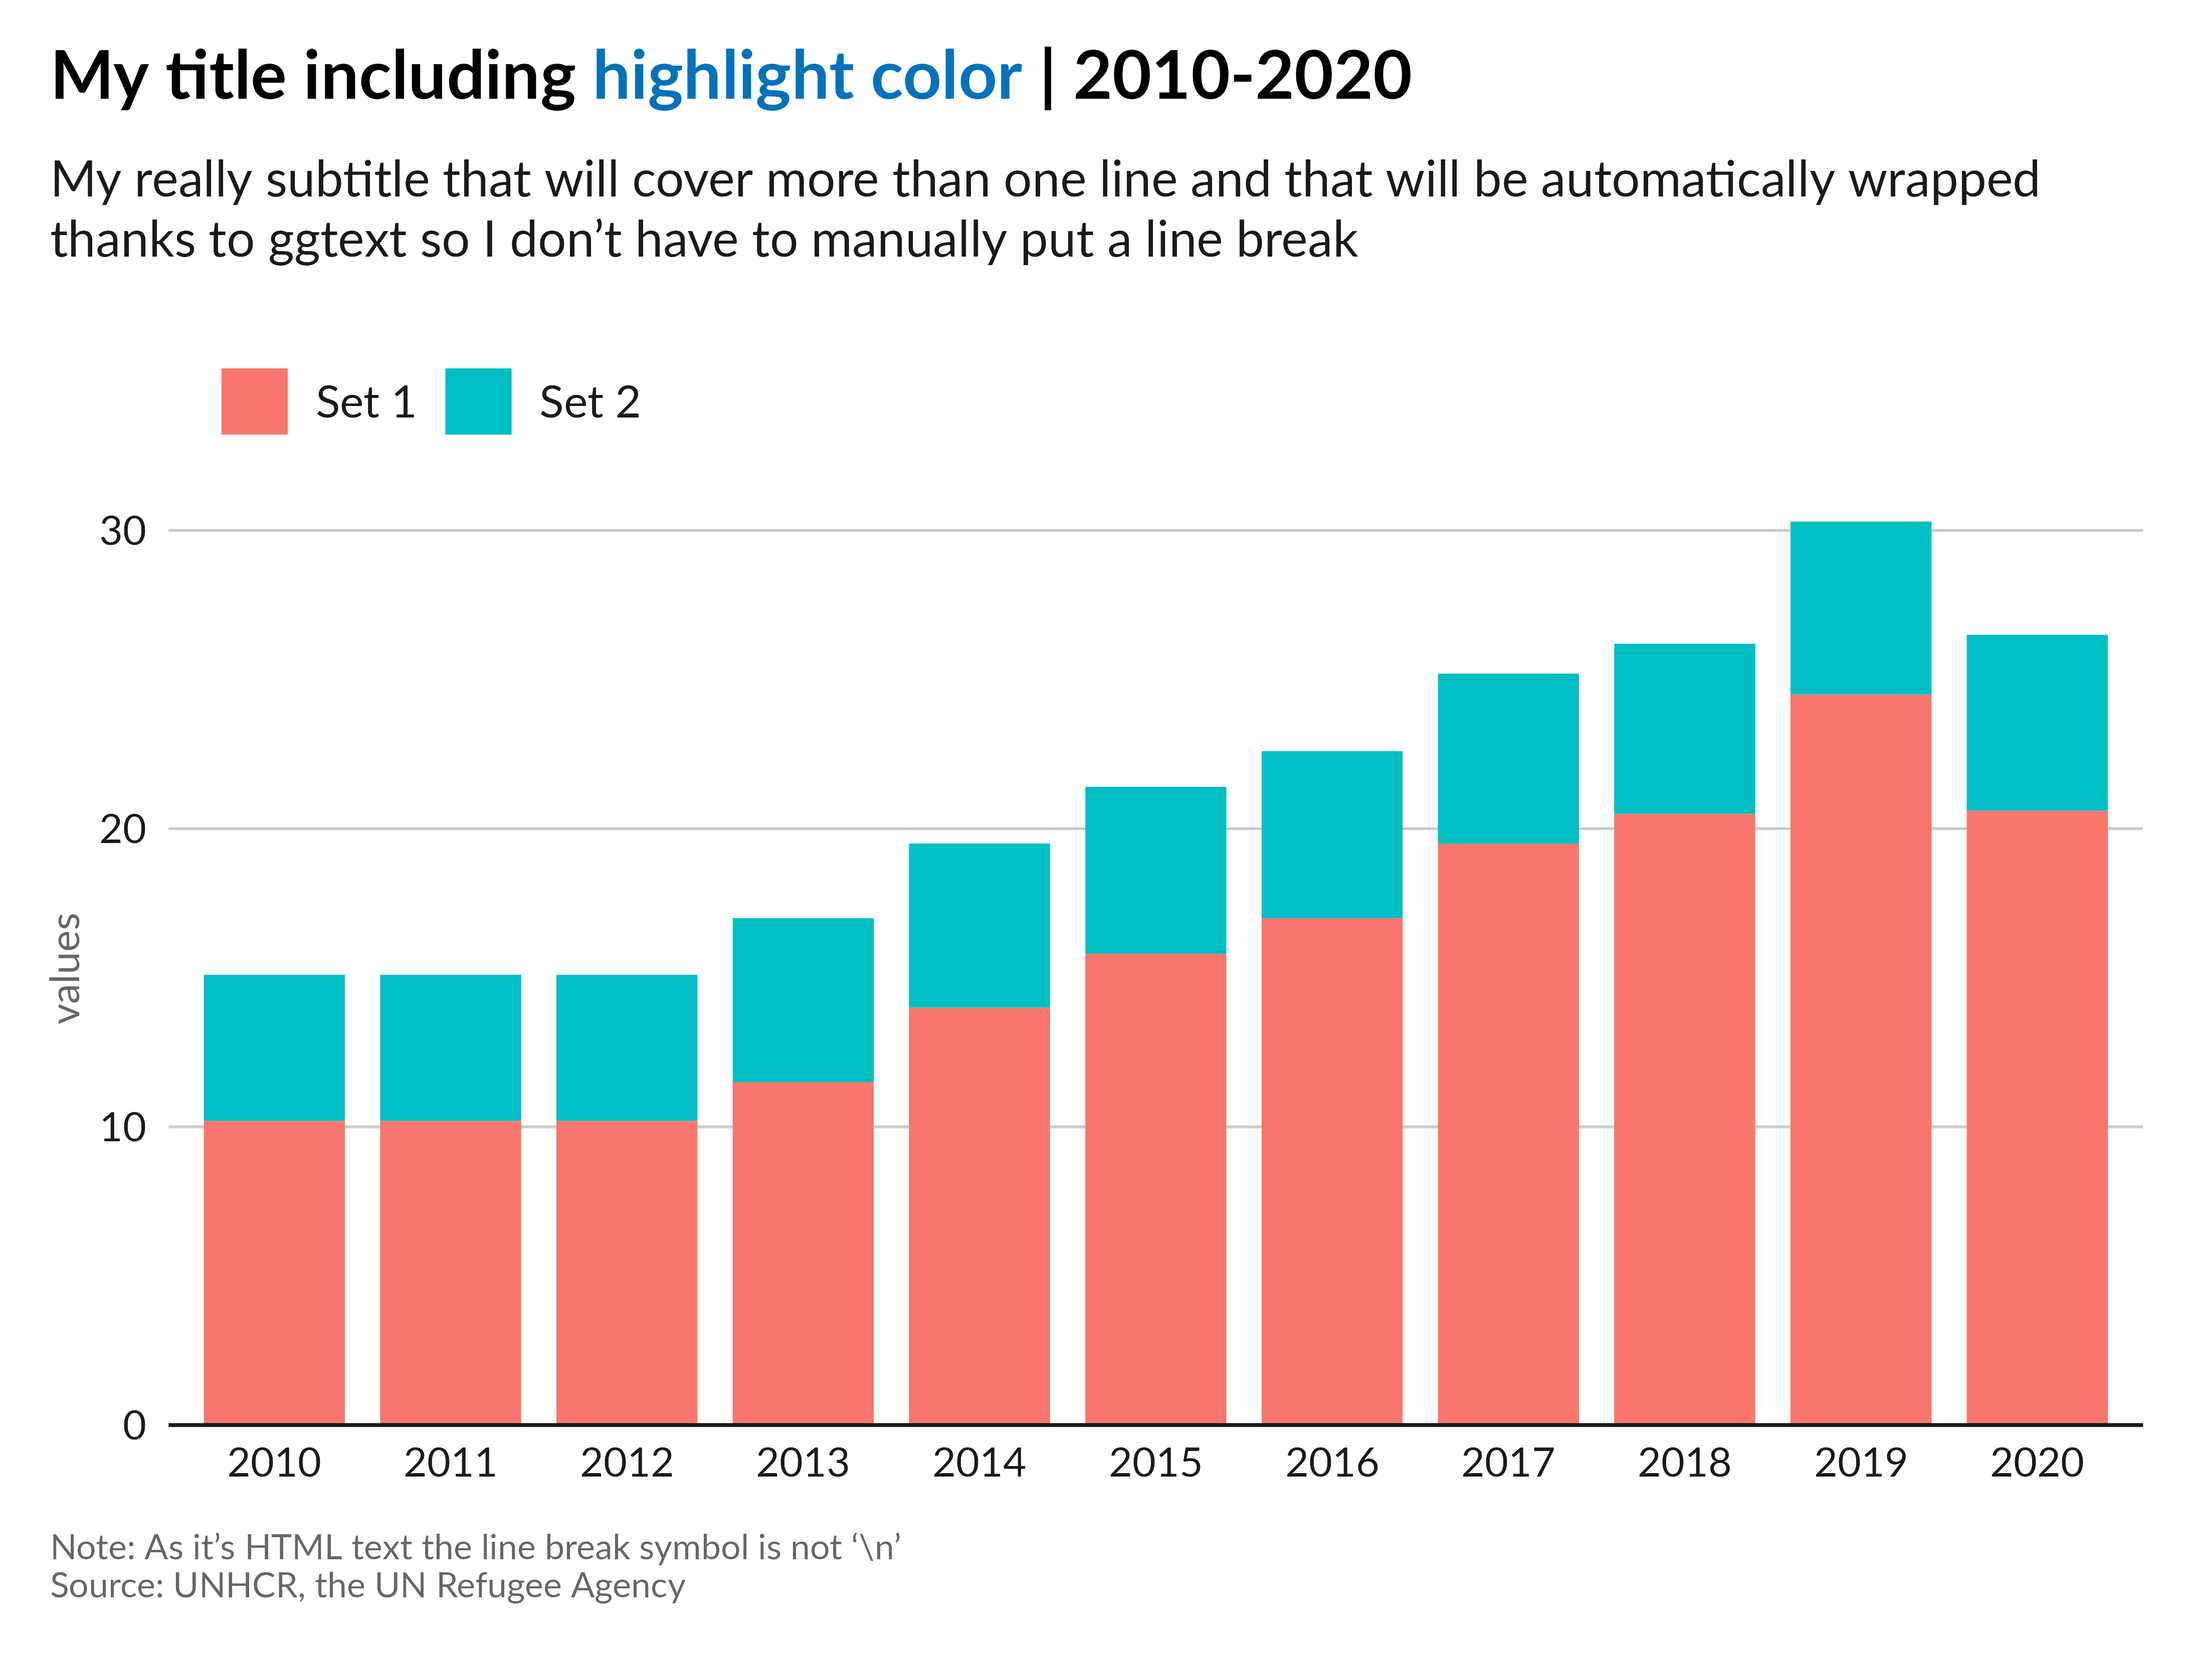
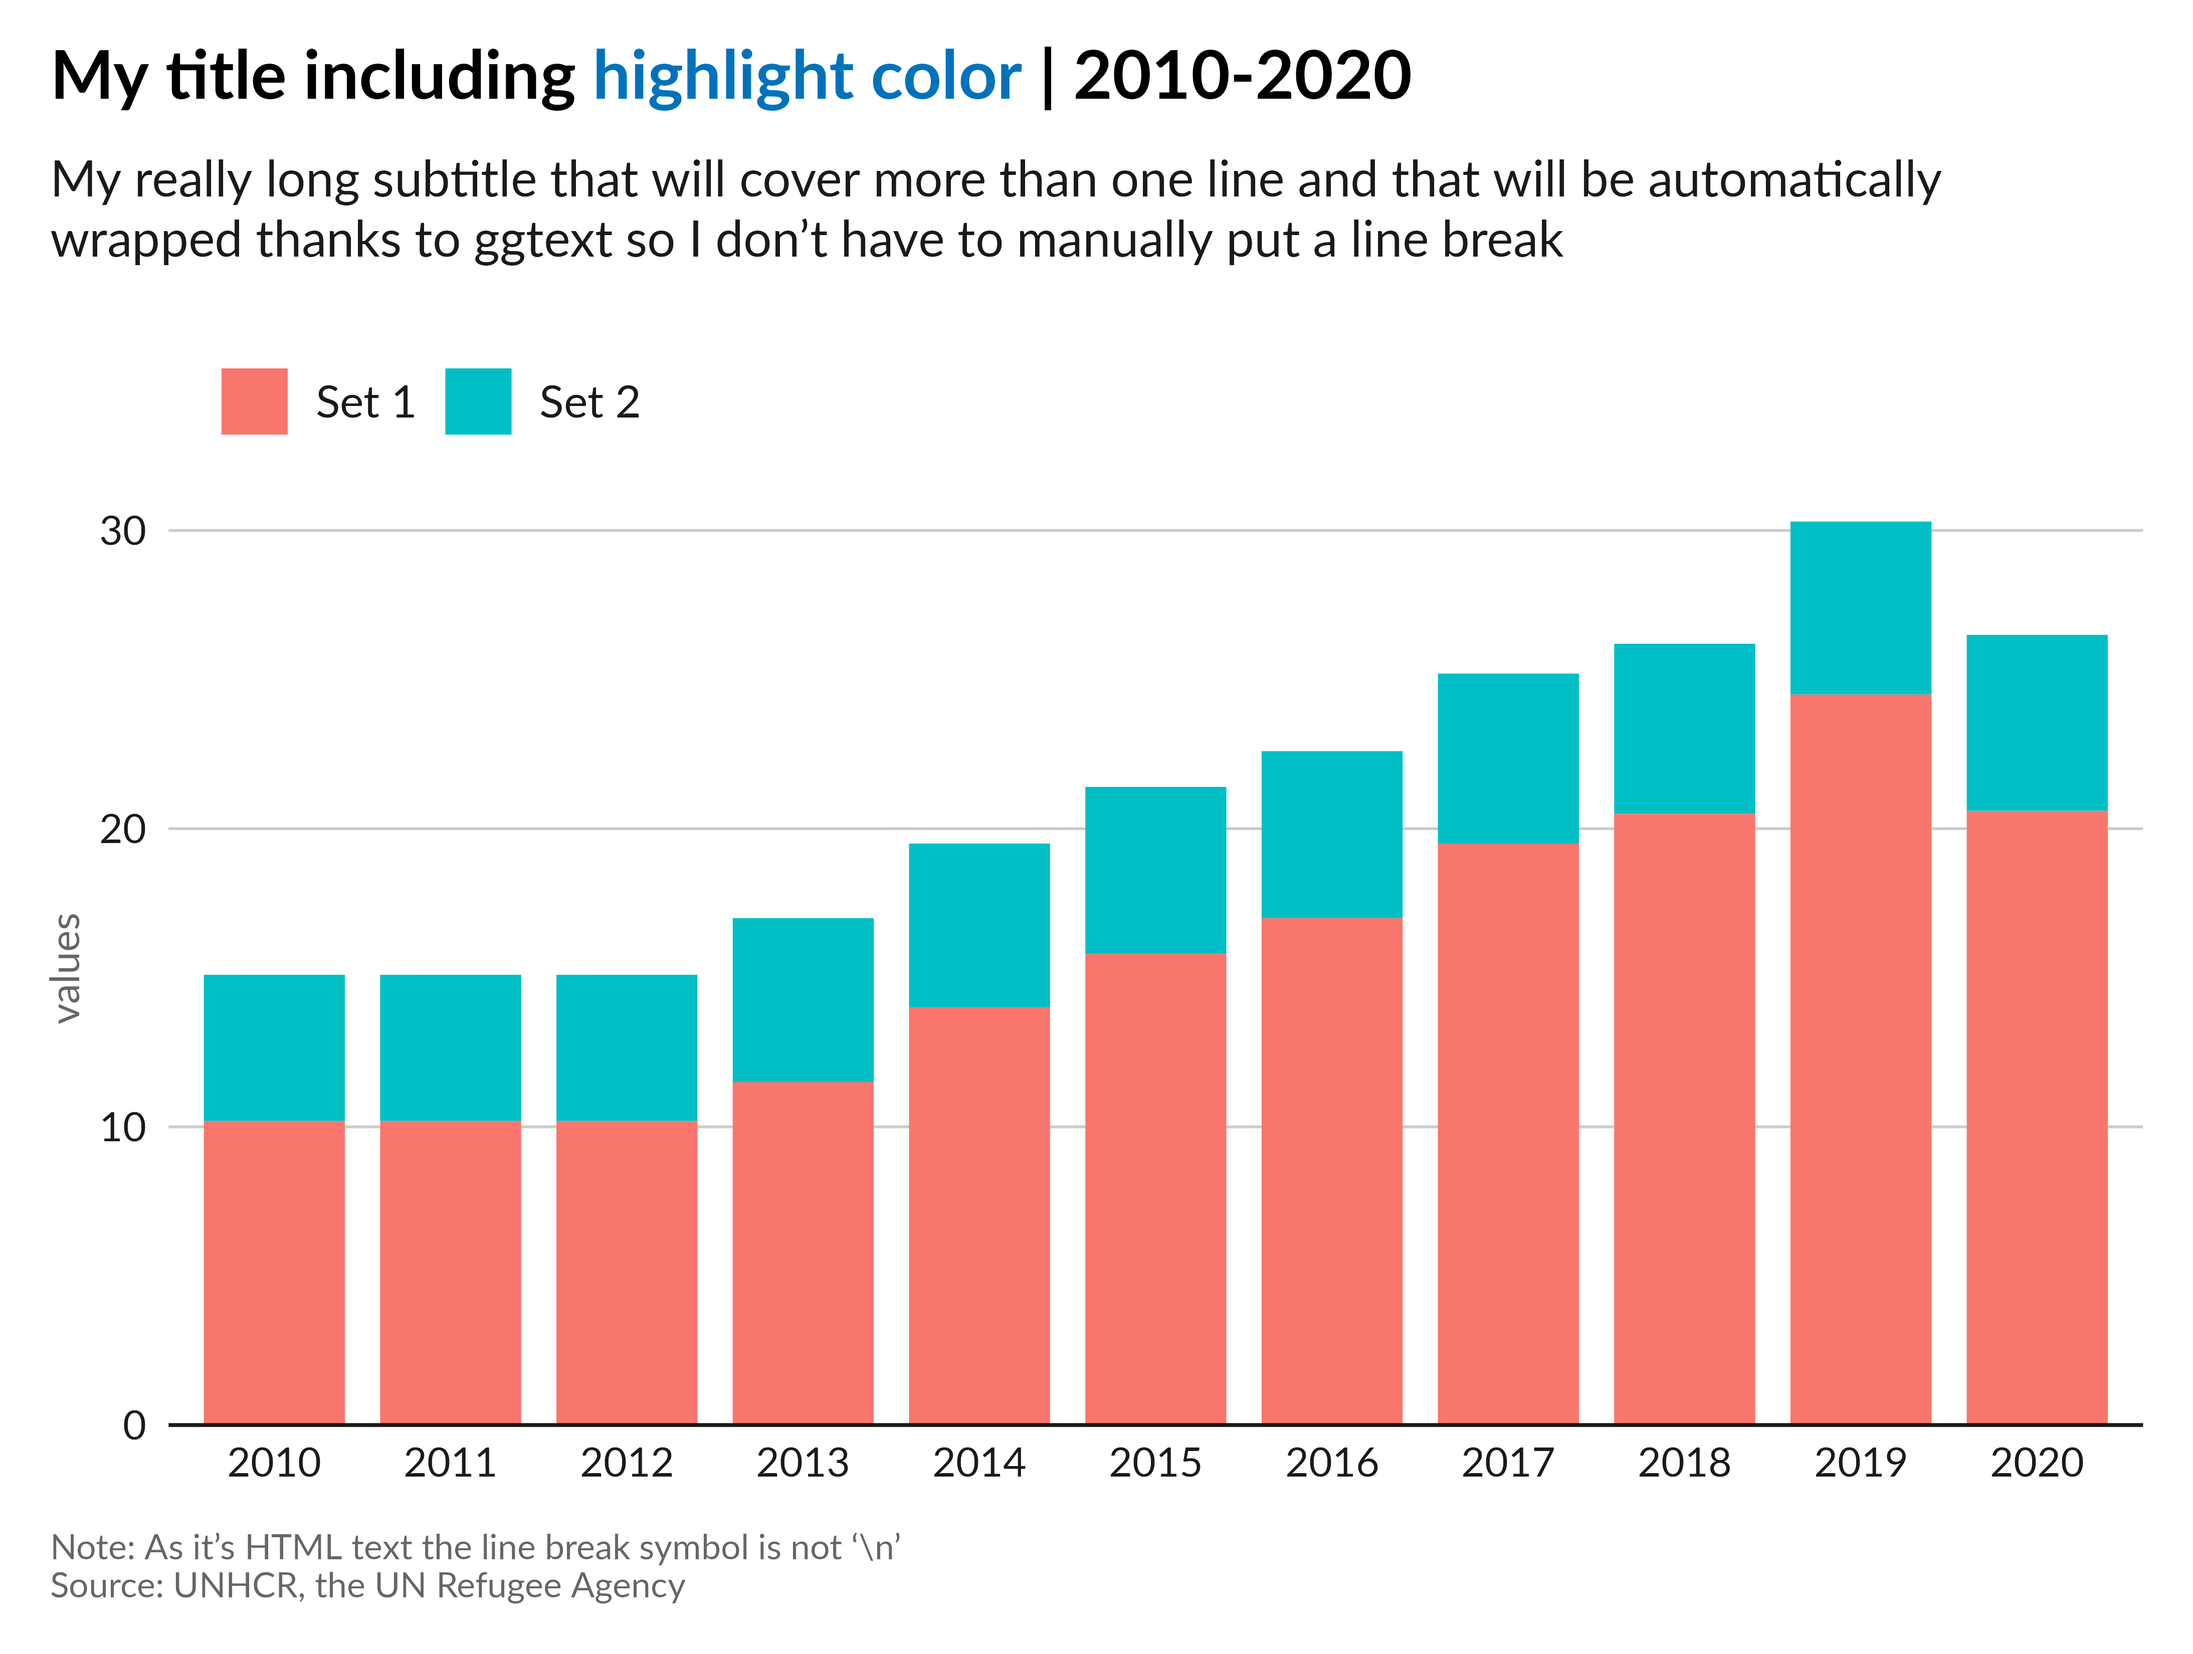
Deploying to gh-pages from @ unhcr-dataviz/unhcrthemes@bcc7aeec59213d2d7b5fb515b0426814c9c6178f 🚀

Changed region(s): [[0.0311, 0.0936, 0.9326, 0.1561]]

diff --git a/articles/unhcrthemes.html b/articles/unhcrthemes.html
@@ -217,13 +217,13 @@ below.</p>
 <div class="section level2">
 <h2 id="grid">Grid<a class="anchor" aria-label="anchor" href="#grid"></a>
 </h2>
-<p>The <code>grid</code> parameter control the display of both major and
-minor grid lines in your plot. By default, major grid lines are visible
-and minor hiddend.</p>
+<p>The <code>grid</code> parameter controls the display of both major
+and minor grid lines in your plot. By default, major grid lines are
+visible and minor ones are hidden.</p>
 <p>Using <code>grid = "XY"</code> adds both major X and Y grid lines,
 <code>grid = "X"</code> adds only major X grid lines,
 <code>grid = "Y"</code> adds only major Y grid lines, and
-<code>grid = FALSE</code> removes all grid lines. You can minor grid
+<code>grid = FALSE</code> removes all grid lines. You can add minor grid
 lines by using lowercase <code>"xy"</code>, <code>"x"</code> or
 <code>"y"</code>. For example, let’s keep only the major Y grid
 lines:</p>
@@ -251,9 +251,9 @@ lines:</p>
 <div class="section level2">
 <h2 id="axis">Axis<a class="anchor" aria-label="anchor" href="#axis"></a>
 </h2>
-<p>The axis represents of course the axis lines but it also includes the
-different axis elements such as the axis title, axis text, and axis
-ticks.</p>
+<p>Unsurprisingly, the axis represents the axis lines. However, it also
+includes different axis elements such as the axis title, axis text, and
+axis ticks.</p>
 <div class="section level3">
 <h3 id="axis-lines">Axis lines<a class="anchor" aria-label="anchor" href="#axis-lines"></a>
 </h3>
@@ -295,7 +295,7 @@ axis to create some room. To remove this extra space, you can use the
 <p>In this example, we will set the <code>expand</code> argument to
 <code>expansion(c(0, 0.01))</code> for the y axis to remove the unwanted
 space, effectively “expanding” the axis by removing the space at the
-axis origins and adding a small padding at the other ends.</p>
+axis origin and adding a small padding at the other end.</p>
 <div class="sourceCode" id="cb4"><pre class="downlit sourceCode r">
 <code class="sourceCode R"><span><span class="fu"><a href="https://ggplot2.tidyverse.org/reference/ggplot.html" class="external-link">ggplot</a></span><span class="op">(</span></span>
 <span>  data <span class="op">=</span> <span class="va">df</span>,</span>
@@ -381,12 +381,12 @@ ticks, <code>axis_ticks = "X"</code> adds only the X axis ticks,
 </h2>
 <p>Like all the chart elements, the different text elements, such as the
 plot title, subtitle, caption, and more, can be controlled using the
-<code>theme_unhcr</code> function. We encourage you, not to touch too
-much any of these parameters, as they are part of the UNHCR branding and
-should be used as is. However, you can still adjust the font size, font
-family, margin or justification of each of these elements using, for
-example, the <code>plot_title_size</code>,
-<code>plot_title_margin</code>, etc. parameters.</p>
+<code>theme_unhcr</code> function. We encourage you, not to touch any of
+these parameters, as they are part of the UNHCR branding and should be
+used as is. However, you can still adjust the font size, font family,
+margin or justification of each of these elements using, for example,
+the <code>plot_title_size</code>, <code>plot_title_margin</code>, etc.
+parameters.</p>
 <p>On top of the <code>theme_unhcr</code> parameters, the
 <a href="https://github.com/unhcr-dataviz/unhcrthemes" class="external-link">unhcrthemes</a> package natively incorporates the
 <a href="https://wilkelab.org/ggtext/" class="external-link">ggtext</a> package for advanced text rendering in the title,
@@ -406,7 +406,7 @@ your plots.</p>
 <span>    <span class="co"># Add some HTML style to the title</span></span>
 <span>    title <span class="op">=</span> <span class="st">"My title including &lt;span style='color:#0072BC;'&gt;highlight color&lt;/span&gt; | 2010-2020"</span>,</span>
 <span>    <span class="co"># Automatic wrapping of long text</span></span>
-<span>    subtitle <span class="op">=</span> <span class="st">"My really subtitle that will cover more than one line and that will be automatically wrapped thanks to ggtext so I don't have to manually put a line break"</span>,</span>
+<span>    subtitle <span class="op">=</span> <span class="st">"My really long subtitle that will cover more than one line and that will be automatically wrapped thanks to ggtext so I don't have to manually put a line break"</span>,</span>
 <span>    y <span class="op">=</span> <span class="st">"values"</span>,</span>
 <span>    <span class="co"># Line break in the caption, use &lt;br&gt; instead of \n</span></span>
 <span>    caption <span class="op">=</span> <span class="st">"Note: As it's HTML text the line break symbol is not '\\n'&lt;br&gt;Source: UNHCR, the UN Refugee Agency"</span></span>
@@ -423,8 +423,8 @@ your plots.</p>
 <div class="section level3">
 <h3 id="add-text-labels">Add text labels<a class="anchor" aria-label="anchor" href="#add-text-labels"></a>
 </h3>
-<p>Text labels added with <code>geom_text</code> will also come with the
-recommended font and style.</p>
+<p>Text labels added with <code>geom_text</code> will also display using
+the recommended font and style.</p>
 <div class="sourceCode" id="cb7"><pre class="downlit sourceCode r">
 <code class="sourceCode R"><span><span class="fu"><a href="https://ggplot2.tidyverse.org/reference/ggplot.html" class="external-link">ggplot</a></span><span class="op">(</span></span>
 <span>  data <span class="op">=</span> <span class="va">df</span>,</span>
